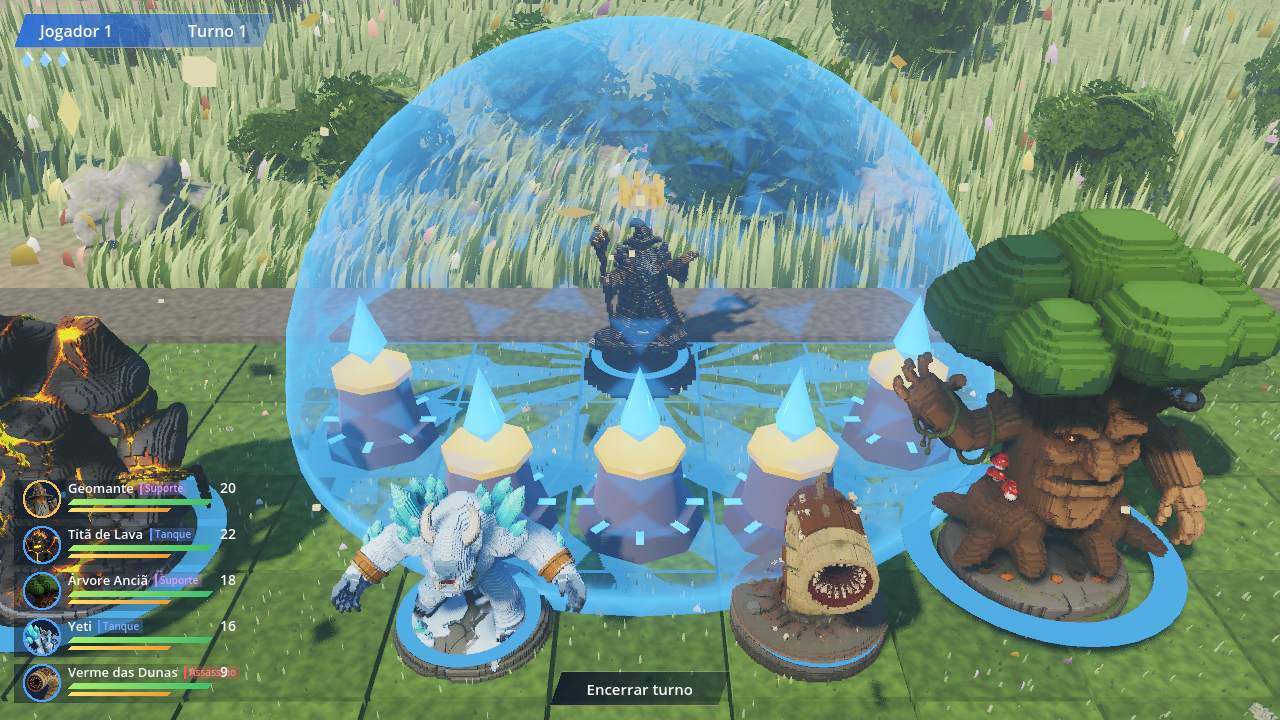
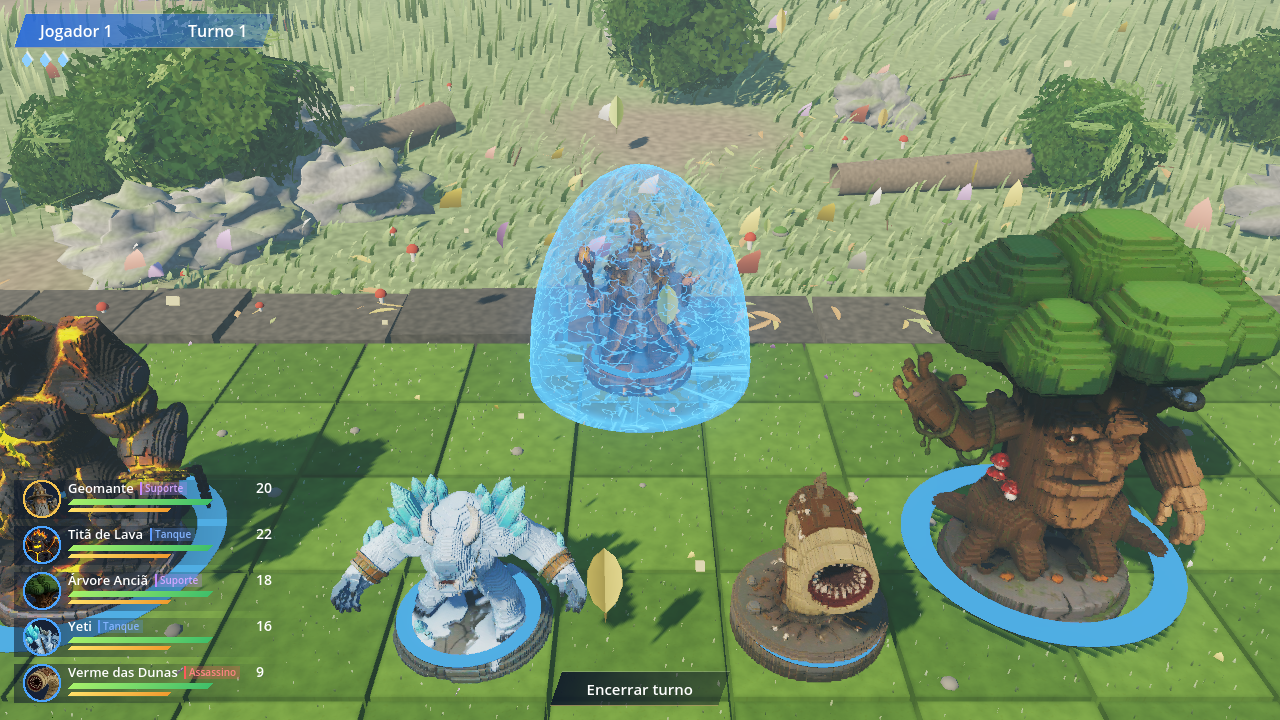
README da v0.5: tutorial em lições, treino, tipos de golpe e escudo do Mago
Novas imagens do menu, da arena com os modelos novos, do escudo do Mago,
das lições do tutorial, do Campo de Treino e dos golpes novos.

diff --git a/README.md b/README.md
@@ -7,7 +7,7 @@ Derrube o Mago inimigo para vencer, sem perder o seu.
 
 ## Baixar e jogar (Windows)
 
-1. Abra a aba **[Releases](../../releases/latest)** e baixe `XequeMago-v0.4-windows.zip`.
+1. Abra a aba **[Releases](../../releases/latest)** e baixe `XequeMago-v0.5-windows.zip`.
 2. Extraia o zip numa pasta.
 3. Rode `XequeMago.exe`. Os dois arquivos (`.exe` e `.pck`) precisam ficar na mesma pasta.
 
@@ -15,45 +15,97 @@ Se o Windows mostrar "O Windows protegeu o computador", clique em **Mais informa
 (o jogo ainda não é assinado digitalmente).
 
 Requisitos: Windows 10 ou 11 (64 bits) e placa de vídeo com Vulkan.
+Se o jogo pesar no seu PC, vá em **Opções → Qualidade gráfica** e escolha **Baixa** ou **Média**.
+
+![Menu](imagens/01_menu.png)
 
 ## Modos
 
-- **Tutorial**: ensina a andar, atacar, quebrar a torre do escudo e derrubar o Mago, passo a passo
+- **Tutorial**: 11 lições curtas, uma para cada parte do jogo
+- **Treino**: um campo com bonecos de pancada para testar os golpes de qualquer boneco
 - **Contra a CPU**
 - **Dois jogadores** no mesmo computador, passando a vez
 
 ## Tutorial
 
-![Tutorial](imagens/09_tutorial.png)
+Cada lição monta um cenário próprio e guia clique a clique: o painel explica a mecânica, mostra o
+próximo clique e marca a casa certa. As lições feitas ficam marcadas.
+
+![Lições](imagens/11_licoes.png)
+
+1. Andar e câmera · 2. Atacar e energia · 3. O dado de 20 lados · 4. Tipos de golpe e a ficha · 5. Terreno ·
+6. Santuário · 7. Quebrar os totens · 8. O escudo do Mago · 9. Seu Mago · 10. Eventos do mapa · 11. Derrubar o Mago
+
+![Lição do escudo](imagens/09_tutorial.png)
+
+## Campo de Treino
+
+Escolha qualquer boneco e bata nos bonecos de pancada: um colado, dois a 3 casas, um a 5 e um a 7 casas, mais um
+aliado de pancada para os golpes de aliado. Eles voltam com a vida cheia a cada turno, e a energia infinita pode
+ser ligada ou desligada. No canto de cima, a ficha do boneco em uso mostra a vida e a energia; passando o mouse num
+golpe, as bolinhas de energia que ele gasta ficam vermelhas.
+
+![Treino](imagens/12_treino.png)
 
 ## Como funciona
 
-![Guarda do Mago](imagens/03_guarda_do_mago.png)
+![Escudo do Mago](imagens/03_guarda_do_mago.png)
 
-- **Guarda do Mago.** Cada Mago começa dentro de uma cúpula de energia, atrás de 5 pilares de cristal.
-  Com a guarda de pé, ele não ataca, mas os poderes de suporte (cura, escudo, potencializar, mudar o
-  terreno) alcançam a arena inteira. Quebre um pilar e a guarda desmorona: o Mago passa a atacar.
-- **Totens de flanco.** Enquanto os dois totens de um lado estão de pé, o Mago desse lado não leva dano.
-  Para vencer, é preciso ir pelos flancos.
+A defesa do Mago tem **três etapas**:
+
+1. **Os dois totens de pé.** Cada lado tem dois totens nos flancos. Enquanto os dois estão de pé, nada atinge o
+   Mago, nem o escudo dele, e ele só usa magias de suporte (cura, escudo, potencializar, mudar o terreno),
+   que alcançam a arena inteira.
+2. **Um totem caído.** Os golpes no Mago passam a quebrar o escudo de energia que o cerca (12 de vida), e o Mago
+   libera o seu ataque principal.
+3. **Escudo quebrado.** O Mago usa todos os ataques, as magias caem para 4 casas de alcance e ele passa a levar dano.
+
+![Totem](imagens/07_totem.png)
+
 - **Santuários.** O boneco que chega a um santuário dourado escolhe uma bênção que vale até o fim da partida:
   **Ataque** (+2 de dano), **Defesa** (defende com 3 a menos no dado) ou **Velocidade** (+1 casa por movimento).
   Cada boneco recebe uma bênção por partida.
-- **Dado de 20 lados.** Todo ataque rola um d20 contra um mínimo calculado pelos atributos; o alvo rola a defesa.
+- **Dado de 20 lados.** Todo ataque com dano rola um d20 contra um mínimo calculado pelos atributos; o alvo rola a
+  defesa. 1 sempre erra; 20 é crítico (+50% de dano, sem defesa).
+- **Energia.** Cada golpe gasta energia do boneco, que volta 3 por turno. Golpes básicos custam 2 ou 3; os grandes,
+  de 6 a 8.
 
 ![Duelo de dados](imagens/04_duelo_de_dados.png)
 
-## Classes
+## Tipos de golpe
 
-Cada boneco tem **1 golpe de dano** (fraco e com condição), **4 golpes de efeito** e **uma passiva**.
+Todo golpe tem um tipo, com ícone e cor no menu e na ficha:
+
+| Tipo | O que faz |
+|---|---|
+| Golpe Base | Ataque ou movimento principal |
+| Proteção Pessoal | Protege ou recupera o próprio boneco |
+| Proteção de Aliado | Ajuda um boneco do seu time |
+| Mudança de Área | Muda o chão ou o ar de uma região (espinhos, lava, chão escaldante, areia, pólen, gelo) |
+| Mudança de Status | Fortalece o boneco ou enfraquece o inimigo |
+| Muralha | Ergue paredes altas que sobem do chão |
+
+![Golpes com tipo](imagens/05_classes_e_golpes.png)
+
+Alguns golpes: Flechada Potente (a exatamente 7 casas), Recuo Forçado, Meditação Élfica, Bomba de Espinhos,
+Muro de Tronco, Pólen Atordoante, Drenagem, Mergulho, Tempestade de Areia, Abalo Sísmico, Arremesso de Rocha,
+Salto Ígneo, Bola de Neve que cresce, Muro de Gelo, Mãos Penumbrais, Último Desejo, Território Vulcânico e
+Muro de Obsidiana.
+
+![Muro de troncos](imagens/13_muro_de_troncos.png)
+
+![Pólen](imagens/14_polen.png)
+
+![Lava e obsidiana](imagens/15_lava_e_obsidiana.png)
+
+## Classes
 
 | Classe | Bonecos | Papel |
 |---|---|---|
 | Tanque | Golem, Minotauro, Yeti, Titã de Lava | Aguenta golpes, segura a linha, protege |
 | Assassino | Lobo Sombrio, Salamandra, Verme das Dunas | Entra pelos flancos e finaliza |
 | Atirador | Arqueira Élfica, Goblin Catapulta | Age de longe e muda o terreno |
-| Suporte | Árvore Anciã, Fantasma, Geomante, Maga das Marés | Cura, fortalece e controla |
-
-![Classes e golpes](imagens/05_classes_e_golpes.png)
+| Suporte | Árvore Anciã, Fantasma, Geomante, Maga das Marés | Cura, protege e controla |
 
 Na escolha do exército, o botão **!** ao lado de cada boneco abre a ficha dele: classe, passiva, atributos e golpes.
 
@@ -92,5 +144,5 @@ bugs e ideias. Prints ajudam muito.
 
 ---
 
-Versão 0.4 (protótipo). Feito com Godot 4.5. Este repositório traz apenas o jogo para download;
+Versão 0.5 (protótipo). Feito com Godot 4.5. Este repositório traz apenas o jogo para download;
 o código-fonte não está público.
